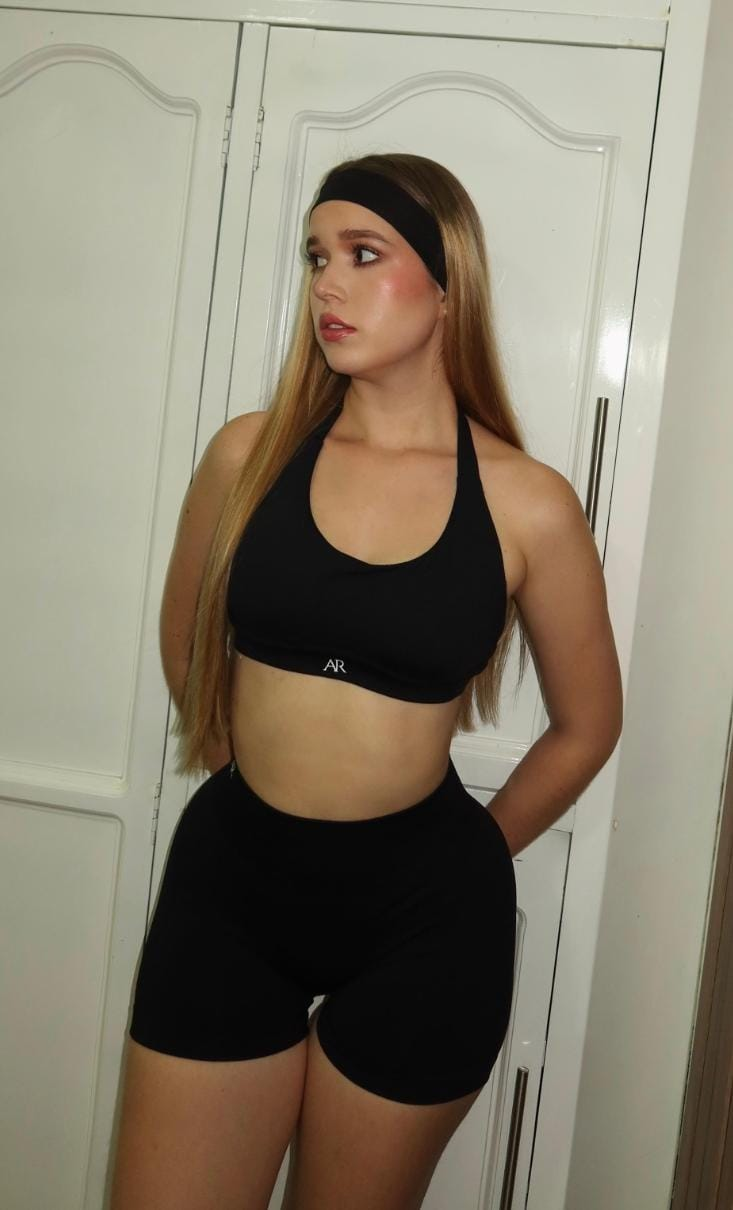
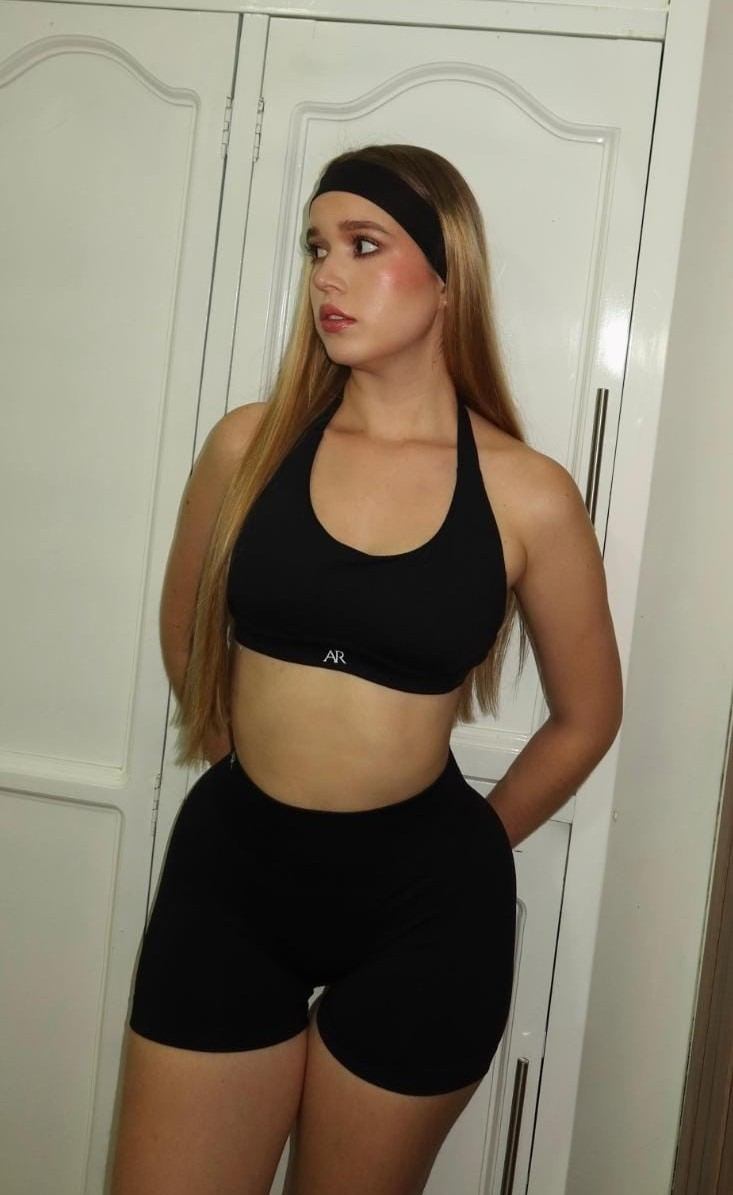
agregamos producto set milan

diff --git a/src/Components/Assets/all_product.js b/src/Components/Assets/all_product.js
@@ -752,6 +752,27 @@ let all_product = [
     },
   },
   {
+    id: 405,
+    name: "SET MILAN - TONO NEGRO",
+    category: "sets",
+    description:
+      "Tela completamente acanalada, su efecto push up te hará lucir increible",
+    image: setmilan1,
+    image2: setmilan2,
+    image3: setmilan3,
+    image4: setmilan4,
+    new_price: 85000,
+    old_price: 100000,
+    offer: false,
+    sizes: {
+      XS: false,
+      S: true,
+      M: true,
+      L: false,
+      XL: false,
+    },
+  },
+  {
     id: 403,
     name: "SET MARIE - TONO AZUL",
     category: "sets",
